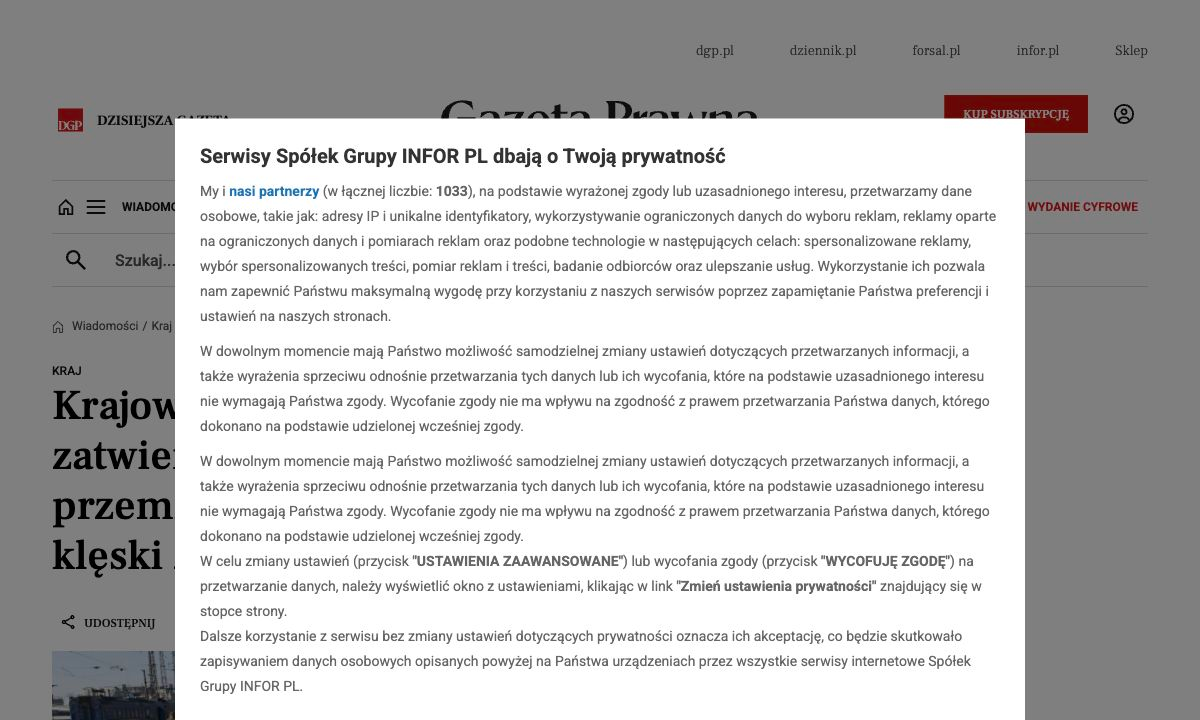
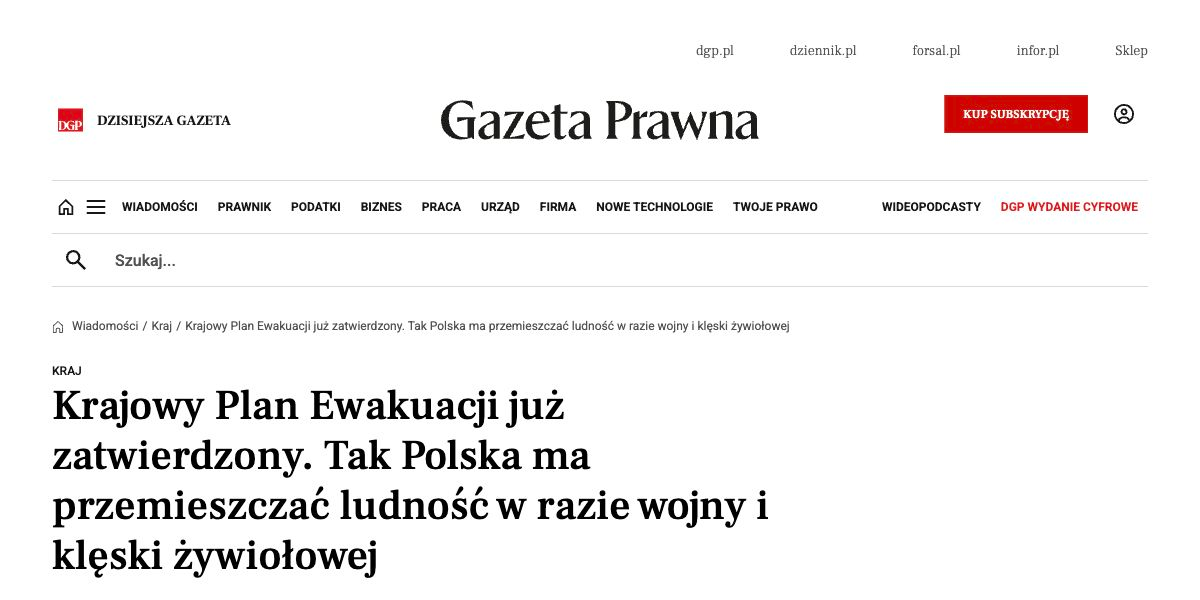
docs(prezentacja): zweryfikuj źródła wycinków

diff --git a/context/foundation/prezentacja/zrodla.md b/context/foundation/prezentacja/zrodla.md
@@ -1,0 +1,22 @@
+# Źródła wycinków do prezentacji
+
+QA wykonane 4 października 2026 r. Każdy z poniższych linków został otwarty bezpośrednio, a tytuł przepisany z nagłówka widocznego na stronie. Dla slajdów 2–3 przyjęto okno ostatnich 12 miesięcy: **4 października 2025 – 4 października 2026**.
+
+| Slajd               | Dokładny tytuł nagłówka                                                                                        | Medium                 | Data       | URL                                                                                                                                                                       | Uwagi                                                                                                                                                                                                                                   |
+| ------------------- | -------------------------------------------------------------------------------------------------------------- | ---------------------- | ---------- | ------------------------------------------------------------------------------------------------------------------------------------------------------------------------- | --------------------------------------------------------------------------------------------------------------------------------------------------------------------------------------------------------------------------------------- |
+| 2 (`slajd-2-1.png`) | Drony nad Polską. Wojsko uspokaja: trwają ćwiczenia                                                            | TVN24.pl               | 2026-05-19 | [tvn24.pl](https://tvn24.pl/lublin/drony-w-powiecie-hrubieszowskim-w-wojewodztwie-lubelskim-wojsko-informuje-ze-trwaja-cwiczenia-st9055698)                               | Temat: drony nad Polską.                                                                                                                                                                                                                |
+| 2 (`slajd-2-2.png`) | Nie tylko przetrwanie. Sąsiedzka Obrona Cywilna uczy, jak radzić sobie w kryzysie i budować zaufanie           | RMF24                  | 2026-09-26 | [rmf24.pl](https://www.rmf24.pl/regiony/warszawa/news-nie-tylko-przetrwanie-sasiedzka-obrona-cywilna-uczy-jak-radz%2CnIdn%2C1018884)                                      | Temat: społeczna obrona cywilna i przygotowanie sąsiedzkie.                                                                                                                                                                             |
+| 2 (`slajd-2-3.png`) | Punkty schronienia z jasnym oznaczeniem. MSWiA podało szczegóły                                                | TVP Info               | 2026-09-30 | [tvp.info](https://www.tvp.info/95666118/oznakowanie-punktow-schronienia-gdzie-znalezc-rozporzadzenie-mswia)                                                              | Temat: oznakowanie punktów schronienia.                                                                                                                                                                                                 |
+| 2 (`slajd-2-4.png`) | Krajowy Plan Ewakuacji już zatwierdzony. Tak Polska ma przemieszczać ludność w razie wojny i klęski żywiołowej | GazetaPrawna.pl        | 2026-09-27 | [gazetaprawna.pl](https://www.gazetaprawna.pl/wiadomosci/kraj/artykuly/11319955%2Ckrajowy-plan-ewakuacji-2026-ewakuacja-ludnosci-polska.html)                             | Temat: Krajowy Plan Ewakuacji.                                                                                                                                                                                                          |
+| 2 (`slajd-2-5.png`) | Jak się zachować w czasie alarmu? Rzecznik strażaków radzi: „To najgorszy doradca”                             | RadioZET.pl            | 2026-09-19 | [radiozet.pl](https://wiadomosci.radiozet.pl/polska/jak-sie-zachowac-w-czasie-alarmu-rzecznik-strazakow-radzi-to-najgorszy-doradca)                                       | Temat: przygotowanie ludności i zachowanie podczas alarmu.                                                                                                                                                                              |
+| 3 (`slajd-3-1.png`) | Zapytali, co mają przygotowane na wypadek kryzysu. Jedna odpowiedź jest alarmująca                             | WP Wiadomości          | 2026-10-02 | [wiadomosci.wp.pl](https://wiadomosci.wp.pl/zapytali-co-maja-przygotowane-na-wypadek-kryzysu-jedna-odpowiedz-jest-alarmujaca-7334659765725408a)                           | Sam tytuł nie zawiera liczby. W widocznym na wycinku leadzie są wyniki: 39% nie ma żadnego z wymienionych elementów wyposażenia kryzysowego, a 9% ma spakowany plecak ewakuacyjny. Badanie Ariadna dla WP, CAWI, N=1095, 18–22.09.2026. |
+| 3 (`slajd-3-2.png`) | Ponad połowa Polaków nie planuje przygotować plecaka ewakuacyjnego. Tylko co czwarty chce go mieć              | InfoSecurity24.pl      | 2026-02-11 | [infosecurity24.pl](https://infosecurity24.pl/bezpieczenstwo-wewnetrzne/ponad-polowa-polakow-nie-planuje-przygotowac-plecaka-ewakuacyjnego-tylko-co-czwarty-chce-go-miec) | Liczby w tytule zapisano słownie. Lead podaje 24,2%; w treści: 52,4% nie planuje przygotowania plecaka. Sondaż IBRiS dla „Rzeczpospolitej”.                                                                                             |
+| 3 (`slajd-3-3.png`) | Polska nie jest gotowa na sytuacje kryzysowe                                                                   | Rzeczpospolita / rp.pl | 2025-10-27 | [rp.pl](https://www.rp.pl/europejskie-forum-nowych-idei/art43239291-polska-nie-jest-gotowa-na-sytuacje-kryzysowe)                                                         | Relacja z debaty o bezpieczeństwie obywateli i systemie obrony cywilnej.                                                                                                                                                                |
+| 3 (`slajd-3-4.png`) | Polsce grozi atak ze strony Rosji? Grzegorz Płaczek: nie jesteśmy przygotowani                                 | Polskie Radio, Jedynka | 2026-09-18 | [polskieradio.pl](https://www.polskieradio.pl/podcasty/rozmowa-dnia/polsce-grozi-atak-ze-strony-rosji-grzegorz-placzek-nie-jestesmy-przygotowani)                         | To tytuł rozmowy i opinia Grzegorza Płaczka, nie ustalenie redakcji ani wynik badania.                                                                                                                                                  |
+
+## Wynik QA
+
+- 9/9 linków działało podczas weryfikacji.
+- 9/9 nagłówków jest dosłownym zapisem tytułu widocznego na stronie.
+- 9/9 publikacji mieści się w przyjętym oknie ostatnich 12 miesięcy.
+- Wszystkie wycinki mają ok. 1200 px szerokości i pokazują nazwę medium oraz nagłówek; usunięto zasłaniające okna zgód z `slajd-2-4.png` i `slajd-3-2.png` oraz poprawiono ucięcie `slajd-2-1.png`.
